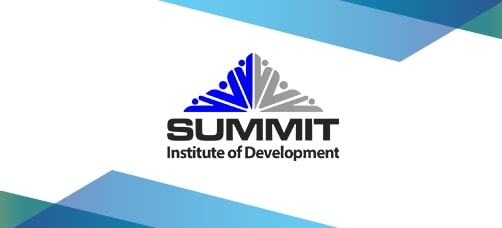
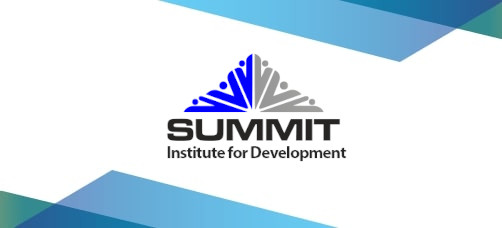
Update organization name

diff --git a/template-parts/vision_mission.php b/template-parts/vision_mission.php
@@ -4,7 +4,7 @@
         $s_vision        = "Our Vision";
         $s_mission       = "Our Mission";
         $s_history       = "History";
-        $content_history = "The Summit Institute of Development (SID) was legally established in 2007. " ;
+        $content_history = "The Summit Institute for Development (SID) was legally established in 2007. " ;
         $content_vision  = "Improvement in health and human development at the community level through research and evidence-based programs, participatory decision-making, and sustainable action.";
         $content_mission ="Improved participation for every member of the community in decision-making, use of data and information, ideas, suggestions and opinions.";
 	$link_history    = "/history/";
@@ -15,7 +15,7 @@
         $s_vision        = "Visi Kami";
         $s_mission       = "Misi Kami";
         $s_history       = "Sejarah";
-        $content_history = "Yayasan Institut Pengembangan Suara Mitra atau dikenal juga sebagai SUMMIT Institute of Development (SID) secara resmi berdiri pada tahun 2007.";
+        $content_history = "Yayasan Institut Pengembangan Suara Mitra atau dikenal juga sebagai SUMMIT Institute for Development (SID) secara resmi berdiri pada tahun 2007.";
         $content_vision  ="Peningkatan kesehatan dan pembangunan manusia di tingkat masyarakat melalui
                            pengambilan keputusan partisipatif berbasis bukti dan aksi kelanjutan";
         $content_mission ="Peningkatan partisipasi setiap anggota masyarakat dalam pengambilan keputusan, dalam bentuk informasi, ide saran atau pendapat.";

diff --git a/footer.php b/footer.php
@@ -84,7 +84,7 @@ if (pll_current_language() == 'en') {
         <div class="container">
             <div class="row py-4 d-flex align-items-center">
                 <div class="col-md-6 col-lg-5 text-center text-white text-md-left mb-4 mb-md-0">
-                    <h6 class="mb-0 small text-white">© <?php echo date("Y");?> Copyright SUMMIT Institute of Development</h6>
+                    <h6 class="mb-0 small text-white">© <?php echo date("Y");?> Copyright SUMMIT Institute for Development</h6>
                 </div>
                 <div class="col-md-6 col-lg-7 text-center text-md-right">
                     <!-- Facebook -->

diff --git a/header.php b/header.php
@@ -9,7 +9,7 @@
     <meta name="theme-color" content="#00a6e9">
 
 	 <meta name="description" content="<?php echo get_bloginfo( 'description' ); ?>">
-    <meta name="author" content="SUMMIT Institute of Development">
+    <meta name="author" content="SUMMIT Institute for Development">
     <meta property="og:title" content="    <?php if 	( is_home() ) 		{ bloginfo('name');}
 				elseif 	( is_category() ) 	{ single_cat_title(); echo ' - '; bloginfo('name'); }
 				elseif 	( is_single() ) 	{ single_post_title(); echo ' - '; bloginfo('name'); }
